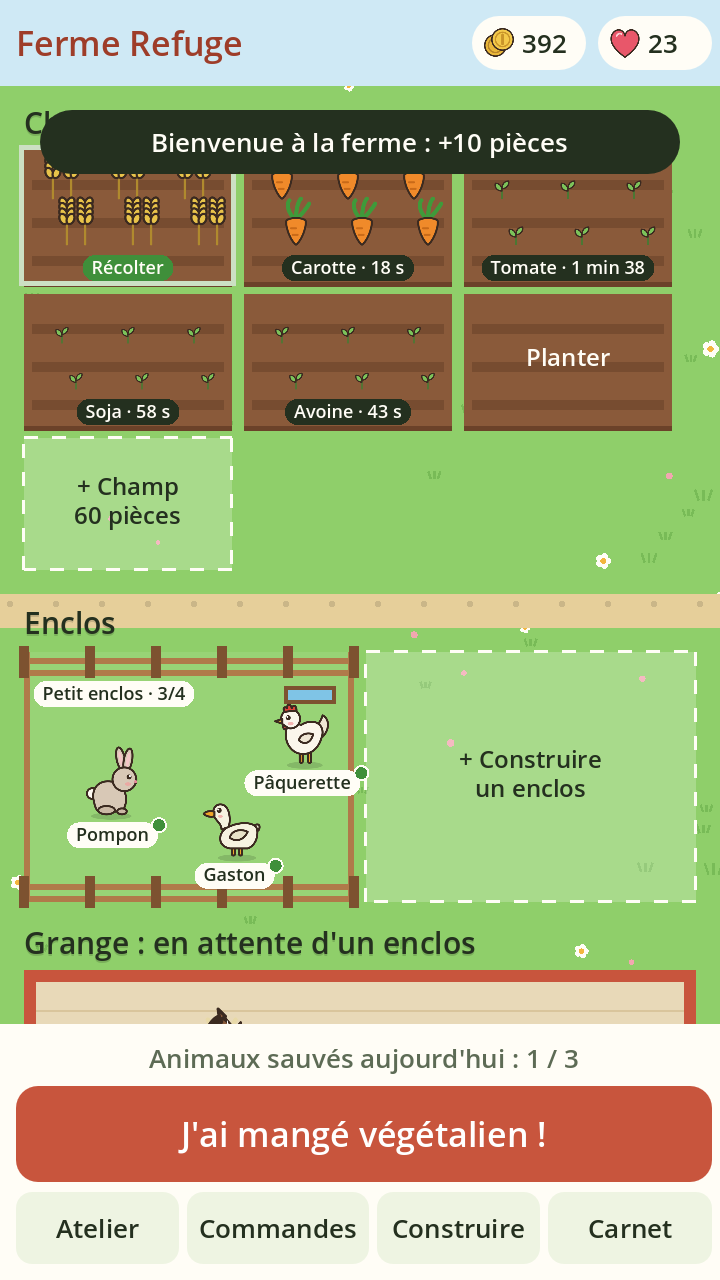
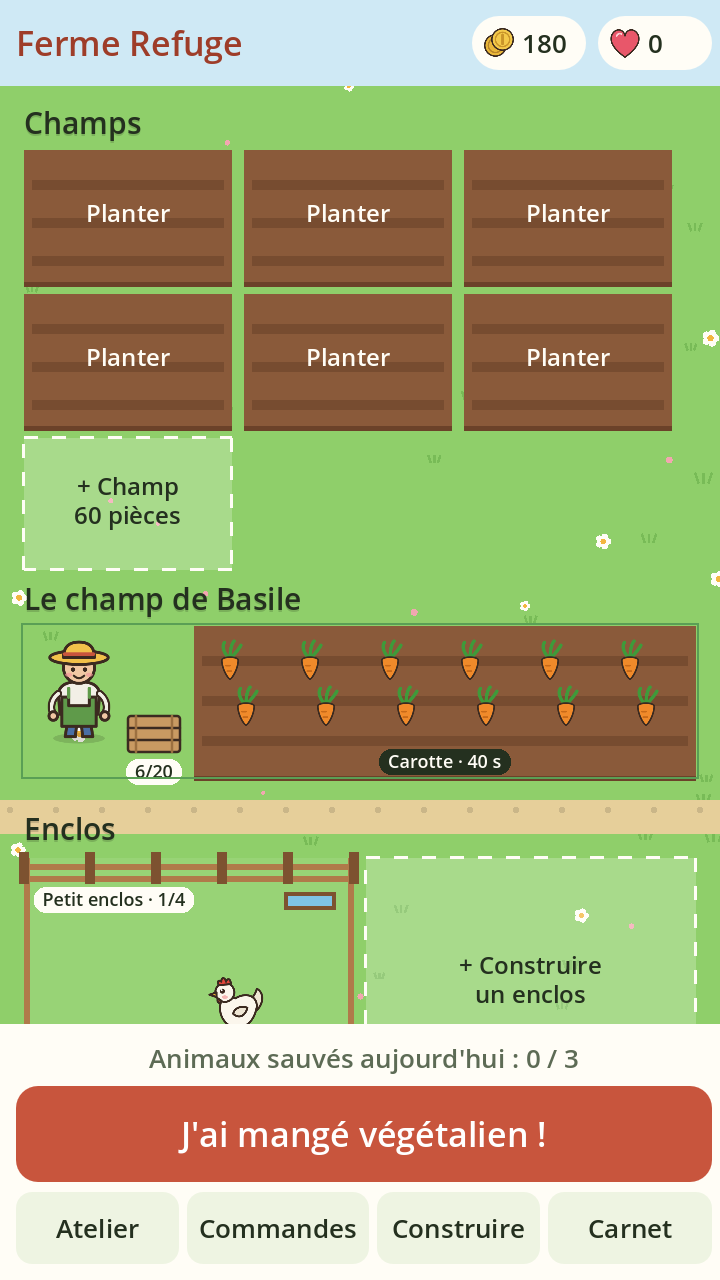
Un employé qui cultive son propre champ
On l'embauche pour 300 pièces, on choisit la culture, et il plante,
récolte et replante seul, même jeu fermé, en payant les graines avec
nos pièces. Ses récoltes vont dans une caisse de 20 places qu'on vient
vider ; caisse pleine ou plus de pièces, il s'arrête. Version 0.4.0.

Claude-Session: https://claude.ai/code/session_014mDeWtkfpyamJkZUj9H5vY

diff --git a/README.md b/README.md
@@ -9,6 +9,7 @@ On cultive, on transforme ses récoltes à l'atelier et on remplit les commandes
 ## Les règles en bref
 
 - **Champs** : planter coûte des graines, chaque récolte donne 2 unités, ou 4 sur un champ amélioré au niveau 2 (150 pièces).
+- **Employé** (300 pièces) : il cultive son propre champ. On choisit la culture, il plante, récolte et replante seul, même jeu fermé, en payant les graines avec nos pièces. Ses récoltes s'entassent dans sa caisse (20 places) qu'on vient vider ; caisse pleine, il s'arrête.
 - **Atelier** : 3 blés font un pain, 3 sojas un tofu, etc. Chaque recette propose une vraie idée de plat.
 - **Commandes** : les voisins paient 50 % de plus que le marché.
 - **Repas** : 3 sauvetages maximum par jour, sur l'honneur. Vaches, ânes et chevaux n'arrivent qu'après plusieurs jours d'affilée.
